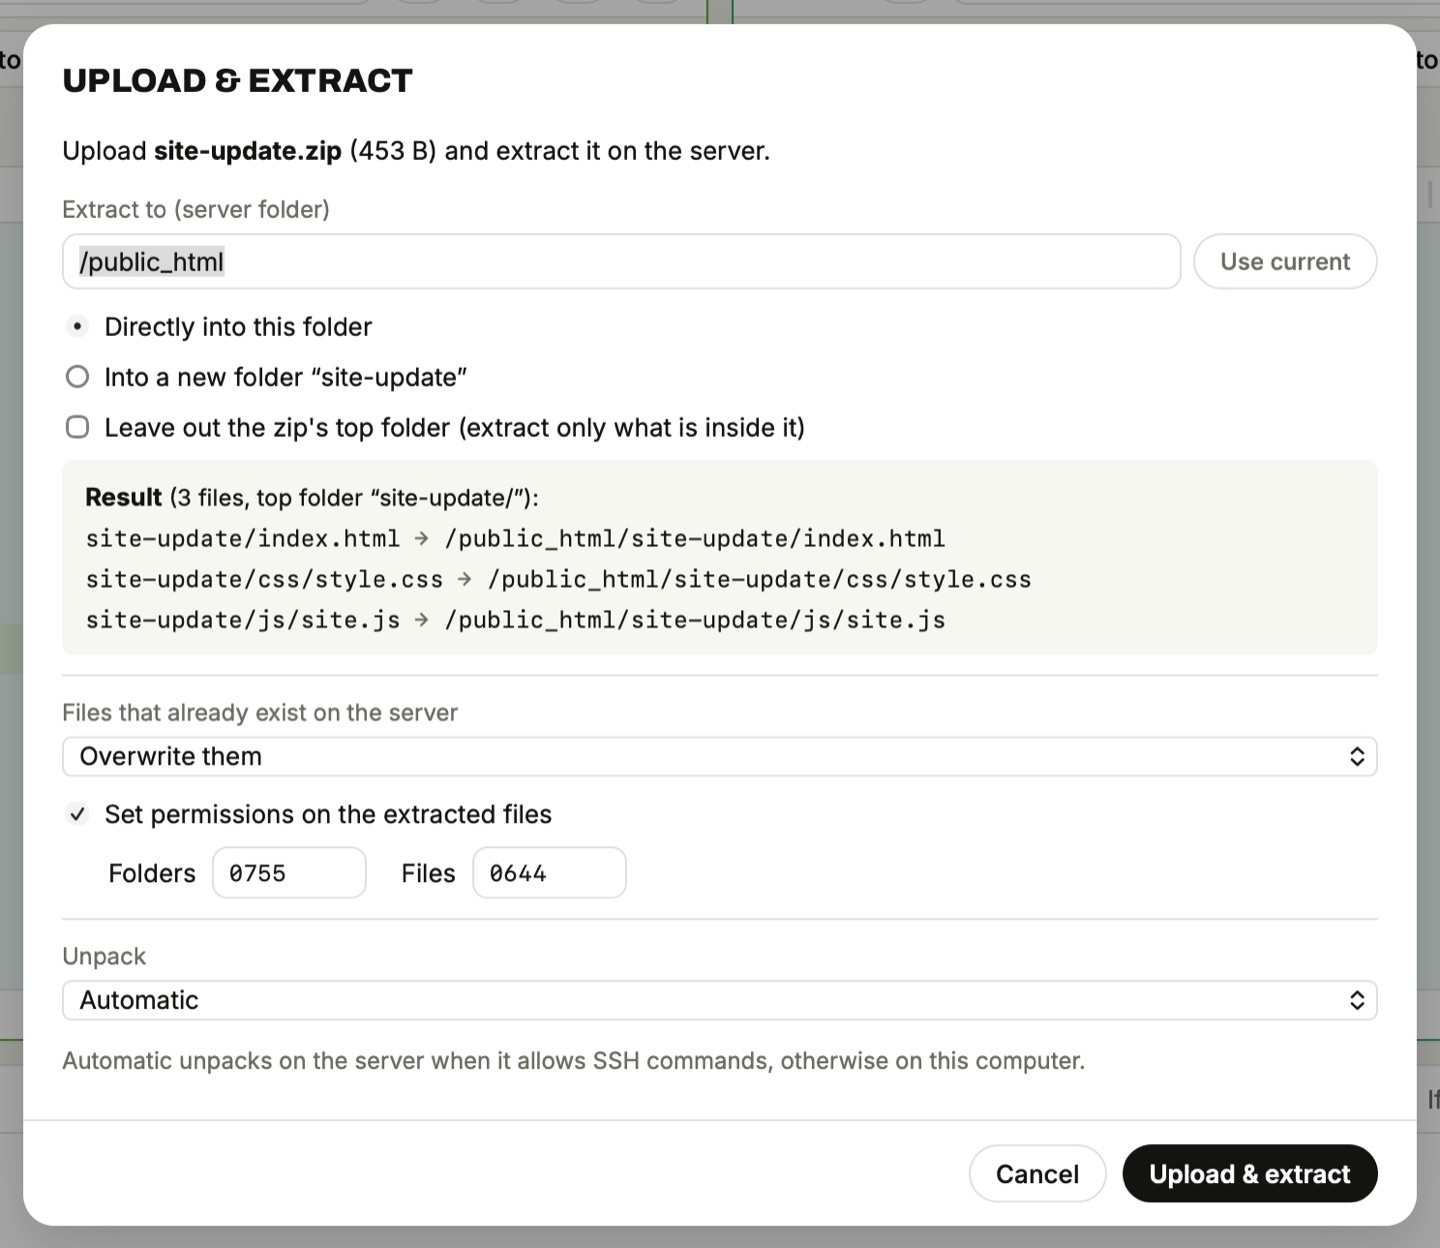
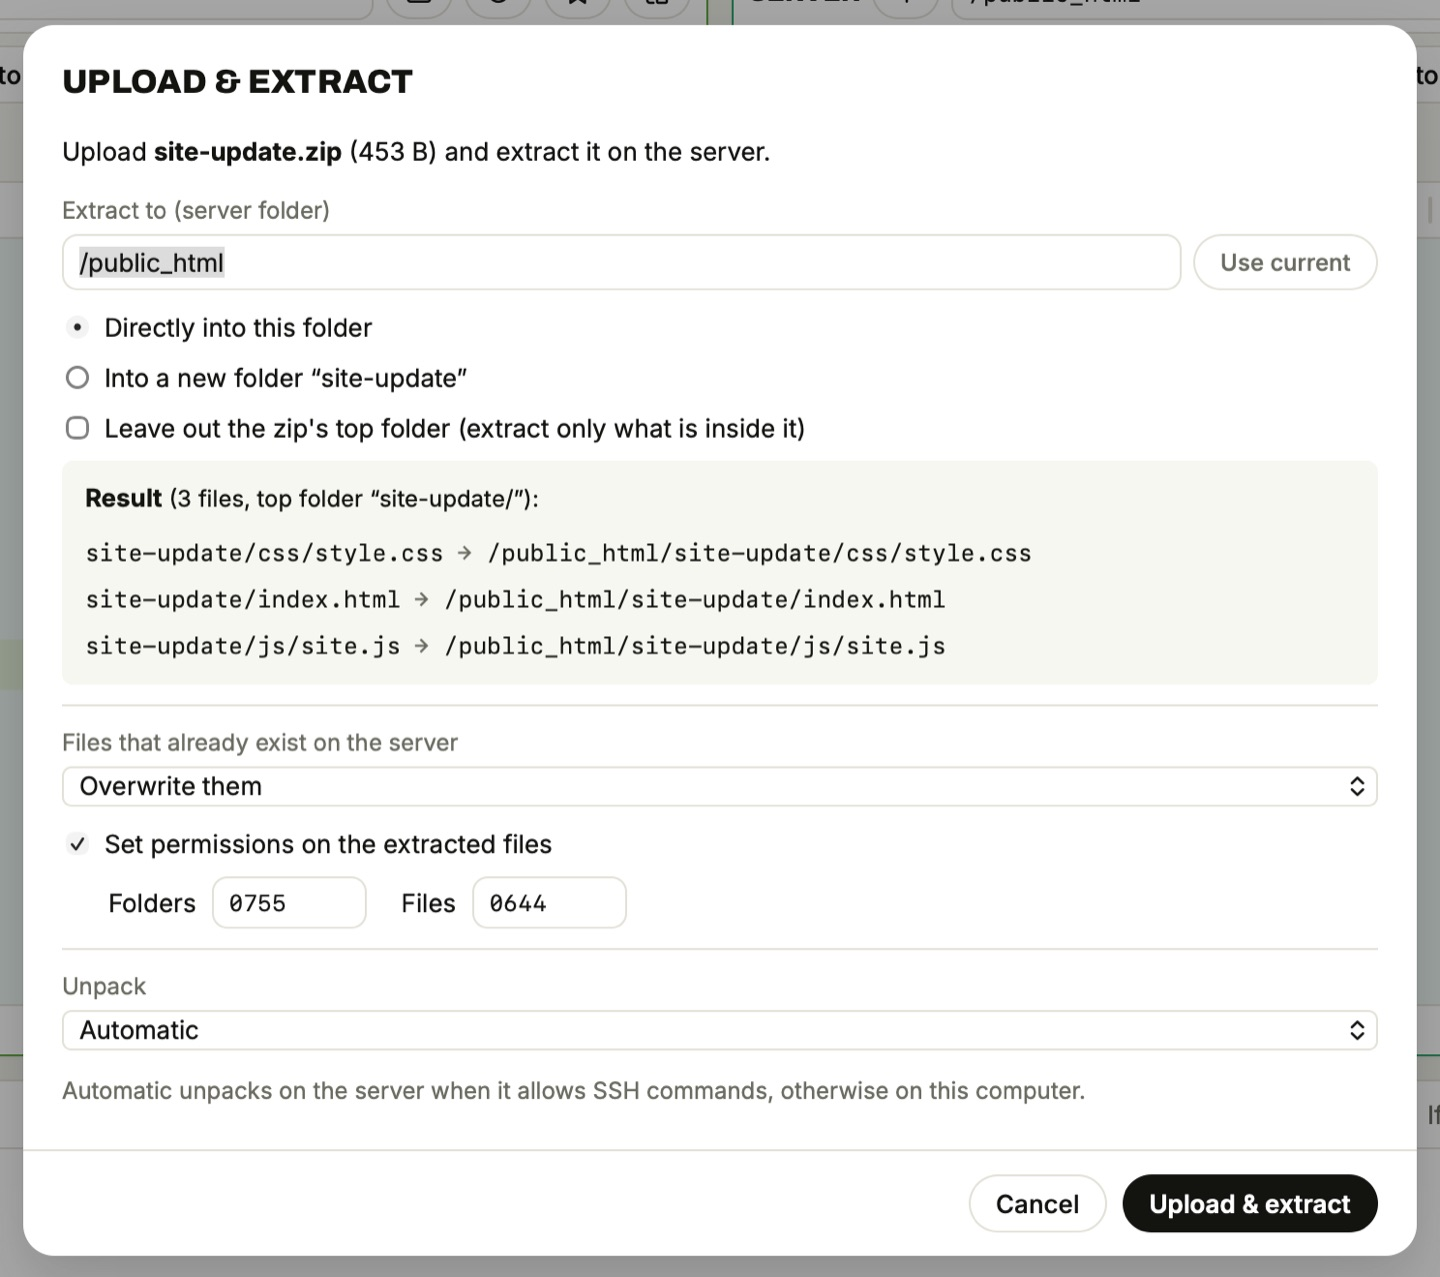
Extract zip: show the whole contents; dialogs fit the window

diff --git a/static/app.js b/static/app.js
@@ -1014,7 +1014,10 @@ async function openExtract(pane) {
         const target = into ? `${destVal === '/' ? '' : destVal}/${base}` : destVal;
         const top = info.top_folder;
         const map = p => (strip && top && p.startsWith(top + '/') ? p.slice(top.length + 1) : p);
-        const rows = info.sample.slice(0, 3).map(p => `<div class="mono">${esc(p)} <span class="muted">→</span> ${esc((target === '/' ? '' : target) + '/' + map(p))}</div>`).join('');
+        // every file in the zip and where it ends up, in a box of its own that scrolls
+        const all = [...(info.names || info.sample)].sort((a, b) => a.localeCompare(b, undefined, { numeric: true }));
+        const rows = `<div class="zip-list">${all.map(p => `<div class="mono"><span>${esc(p)}</span> <span class="muted">→</span> ${esc((target === '/' ? '' : target) + '/' + map(p))}</div>`).join('')}</div>`
+          + (info.files > all.length ? `<div class="muted">${esc(t('… and {n} more', { n: info.files - all.length }))}</div>` : '');
         let warn = '';
         if (destFor !== destVal) {
           destFor = destVal; destNames = null;
@@ -1023,7 +1026,7 @@ async function openExtract(pane) {
         if (strip && top && !into && destNames?.has(top)) {
           warn = `<div class="err" style="margin-top:8px">⚠ ${t("This folder already contains “{top}/”. With “Leave out the zip's top folder” on, the files do <b>not</b> go into “{top}/” and the existing files there are <b>not</b> replaced. Untick it to update “{top}/”.", { top: esc(top) })}</div>`;
         }
-        box.innerHTML = `<b>${esc(t('Result'))}</b> (${esc(top ? t('{n} files, top folder “{top}/”', { n: info.files, top }) : nFiles(info.files))}):${rows}${info.files > 3 ? '<div class="muted">…</div>' : ''}${warn}`;
+        box.innerHTML = `<b>${esc(t('Result'))}</b> (${esc(top ? t('{n} files, top folder “{top}/”', { n: info.files, top }) : nFiles(info.files))}):${rows}${warn}`;
       };
       api('zip_info', { side: pane.side, zip: z.path }).then(r => {
         info = r.info;

diff --git a/static/manual/nl.html b/static/manual/nl.html
@@ -177,7 +177,7 @@
   <figure><img data-shot="extract" alt=""><figcaption>De voorbeeldweergave laat precies zien waar elk bestand terechtkomt.</figcaption></figure>
   <ul>
     <li>Kies de map op de server, en of de bestanden er direct in gaan of in een nieuwe map met de naam van de zip.</li>
-    <li>Het <b>Resultaat</b> laat zien waar de bestanden terechtkomen, en waarschuwt als iets op een onverwachte plek
+    <li>Het <b>Resultaat</b> toont elk bestand in de zip en waar het terechtkomt, en waarschuwt als iets op een onverwachte plek
       zou belanden.</li>
     <li>Je stelt de rechten voor mappen en bestanden in, en of bestaande bestanden worden overschreven of bewaard.</li>
     <li>Via SFTP wordt de zip op de server zelf uitgepakt; via FTP wordt hij op je computer uitgepakt en worden de

diff --git a/static/manual/en.html b/static/manual/en.html
@@ -172,7 +172,7 @@
   <figure><img data-shot="extract" alt=""><figcaption>The preview shows exactly where every file ends up.</figcaption></figure>
   <ul>
     <li>Choose the server folder, and whether the files go directly into it or into a new folder named after the zip.</li>
-    <li>The <b>Result</b> preview shows where the files end up and warns you when something would go to an unexpected
+    <li>The <b>Result</b> preview lists every file in the zip and where it ends up and warns you when something would go to an unexpected
       place.</li>
     <li>You set the permissions for folders and files, and whether existing files are overwritten or kept.</li>
     <li>Over SFTP the zip is unpacked on the server itself; over FTP it is unpacked on your computer and the files are

diff --git a/static/style.css b/static/style.css
@@ -584,3 +584,9 @@ th.c-type { width: 104px; }  /* room for "TXT-bestand" / "Archivo TXT" */
 .fail-name { font-weight: 600; word-break: break-all; }
 .fail-err { font-family: var(--mono, monospace); font-size: 12px; color: #C0392B; margin-top: 2px; word-break: break-word; }
 .fail-hint { font-size: 13px; color: var(--muted); margin-top: 4px; }
+/* dialogs never get taller than the window: the inside scrolls, the buttons stay in view */
+.modal { max-height: calc(100vh - 40px); }
+.overlay { overflow: auto; }
+/* Extract zip: the whole contents of the zip, scrollable */
+.zip-list { max-height: 240px; overflow: auto; margin-top: 6px; padding-right: 6px; font-size: 12px; line-height: 1.7; }
+.zip-list .mono { white-space: nowrap; }

diff --git a/static/manual/es.html b/static/manual/es.html
@@ -179,7 +179,7 @@
   <ul>
     <li>Elige la carpeta del servidor, y si los archivos van directamente en ella o en una carpeta nueva con el nombre
       del zip.</li>
-    <li>El <b>Resultado</b> muestra dónde acaban los archivos y te avisa si algo iría a un sitio inesperado.</li>
+    <li>El <b>Resultado</b> muestra cada archivo del zip y dónde acaba y te avisa si algo iría a un sitio inesperado.</li>
     <li>Tú eliges los permisos de carpetas y archivos, y si los archivos existentes se sobrescriben o se conservan.</li>
     <li>Por SFTP el zip se descomprime en el propio servidor; por FTP se descomprime en tu ordenador y se suben los
       archivos.</li>

diff --git a/static/i18n-es.js b/static/i18n-es.js
@@ -543,4 +543,5 @@ Object.assign(ES, {
   "{n} file(s) could not be transferred. The other files were transferred normally.": "No se pudieron transferir {n} archivo(s). Los demás archivos se transfirieron con normalidad.",
   "Click Retry in the queue to try only these files again. Everything is also written to the log file: {path}": "Haz clic en Reintentar en la cola para volver a probar solo estos archivos. Todo se guarda también en el archivo de registro: {path}",
   "Show log file": "Mostrar el archivo de registro",
+  "\u2026 and {n} more": "… y {n} más",
 });

diff --git a/static/i18n-nl.js b/static/i18n-nl.js
@@ -543,4 +543,5 @@ Object.assign(NL, {
   "{n} file(s) could not be transferred. The other files were transferred normally.": "{n} bestand(en) konden niet worden overgezet. De andere bestanden zijn gewoon overgezet.",
   "Click Retry in the queue to try only these files again. Everything is also written to the log file: {path}": "Klik in de wachtrij op opnieuw proberen om alleen deze bestanden nog eens te proberen. Alles staat ook in het logbestand: {path}",
   "Show log file": "Logbestand tonen",
+  "\u2026 and {n} more": "… en nog {n}",
 });

diff --git a/filebridge/app.py b/filebridge/app.py
@@ -594,7 +594,8 @@ class App:
         if r.has_command('unzip'):
             names = extract._remote_names(r, zp)
             files = [n for n in names if not n.endswith('/') and not n.startswith('__MACOSX/')]
-            return {'info': {'top_folder': deploy.top_folder(names), 'files': len(files), 'sample': files[:12]}}
+            return {'info': {'top_folder': deploy.top_folder(names), 'files': len(files), 'sample': files[:12],
+                             'names': files[:5000]}}
         with r.lock:
             size = r.sftp.stat(zp).st_size or 0
         if size > 300 * 1024 * 1024:

diff --git a/filebridge/deploy.py b/filebridge/deploy.py
@@ -67,7 +67,7 @@ def inspect(zp):
             top = t
     st = os.stat(zp)
     return {'zip': zp, 'name': os.path.basename(zp), 'size': st.st_size, 'mtime': st.st_mtime,
-            'files': len(files), 'top_folder': top, 'sample': files[:12]}
+            'files': len(files), 'top_folder': top, 'sample': files[:12], 'names': files[:5000]}
 
 
 def _backup(job, remote, sftp, remote_dir, ts, site_name):

diff --git a/CHANGELOG.md b/CHANGELOG.md
@@ -9,6 +9,7 @@ and of the update notice in the app, so keep it short and written for users.
 - **Settings** has a new look with tabs (General, Filters, Transfers, View/Edit, User manual), behind the gear at the top right.
 - The synchronized browsing button is now the **⇄** icon, so the top bar fits on one line.
 - A file that times out or loses its connection is tried again automatically on a fresh connection (up to 3 times).
+- Extract zip shows the whole contents of the zip (scroll through it), and dialogs never get taller than the window.
 - **What went wrong?** in the queue shows every file that failed, with the server's reply and a plain explanation.
 - FileBridge keeps a log file (`~/.filebridge/filebridge.log`), so a problem can be looked up after closing.
 
